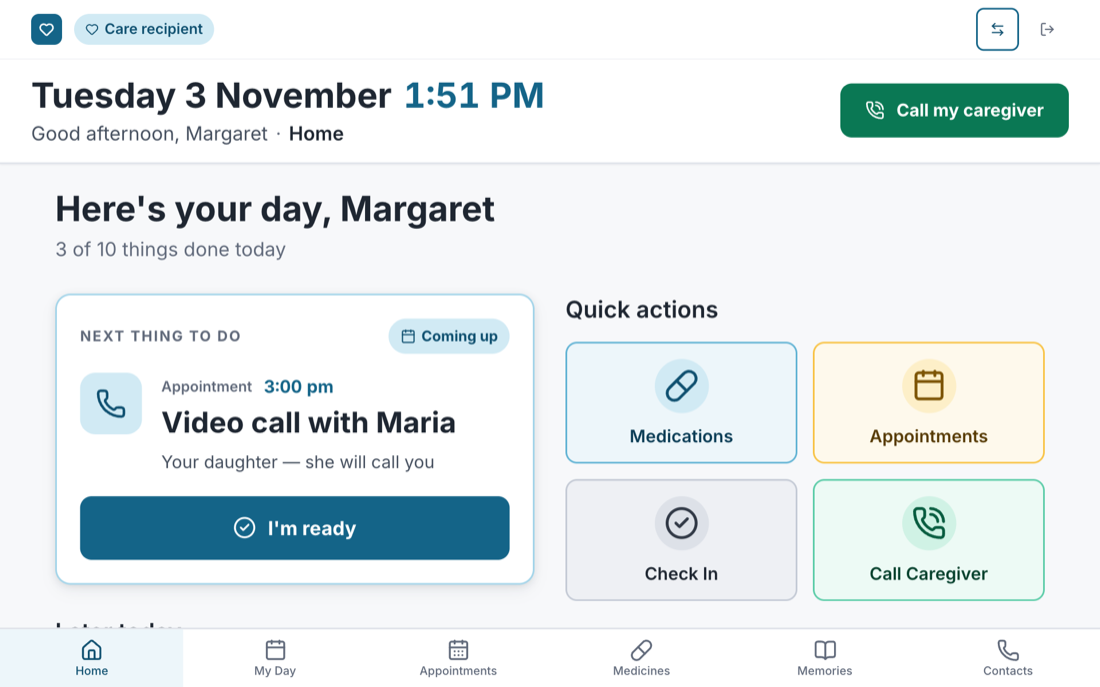
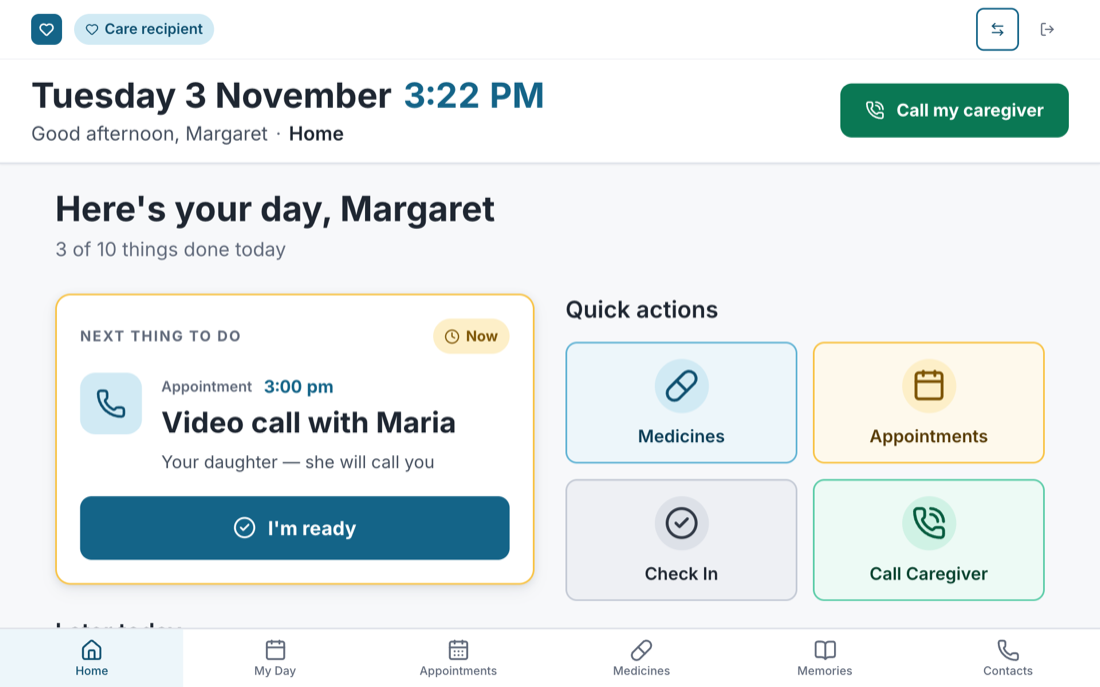
Align the web wording with the ADHD audience and the rest of the app
- Landing page and chat assistant describe adults with ADHD, not people who
  need help remembering.
- The Home quick action says Medicines, matching the tab below it.
- The caregiver menu says Switch to care recipient, matching the badge.
- The Medicines count is one text node, so screen readers don't get
  "3 medicine s".
- Retake the user guide screenshots.

diff --git a/apps/web/src/components/ChatBot.tsx b/apps/web/src/components/ChatBot.tsx
@@ -48,7 +48,7 @@ function getScriptedResponse(message: string): string {
     /\b(what is|what'?s|tell me about|explain|describe|how does|how do|what can)\b/.test(msg) ||
     /careconnect/.test(msg)
   ) {
-    return "CareConnect is a daily companion app for people who need a little help remembering their routine, and the caregivers who support them. It includes a daily schedule, medication reminders, memory cards for people and places, and a shared caregiver notes area — all in a calm, easy-to-read design.";
+    return "CareConnect is a daily companion app for adults with ADHD, and the caregivers who support them. It includes a daily schedule, medication reminders, memory cards for people and places, and a shared caregiver notes area — all in a calm, easy-to-read design.";
   }
 
   // Who is it for

diff --git a/apps/web/src/components/Layout.tsx b/apps/web/src/components/Layout.tsx
@@ -384,10 +384,9 @@ export default function Layout({
                 <button
                   onClick={onSwitchRole}
                   className="w-full flex items-center gap-2.5 px-3 py-2.5 rounded-lg text-sm font-medium text-neutral-500 hover:text-calm-600 hover:bg-calm-50 transition-colors min-h-[2.75rem]"
-                  aria-label="Switch to patient (care recipient role)"
                 >
                   <Heart className="w-5 h-5 flex-shrink-0" aria-hidden="true" />
-                  Switch to patient
+                  Switch to care recipient
                 </button>
               </div>
             </nav>

diff --git a/apps/web/src/pages/Landing.tsx b/apps/web/src/pages/Landing.tsx
@@ -123,7 +123,7 @@ export default function Landing() {
 
                 {/* Supporting sentence for both audiences */}
                 <p className="text-lg md:text-xl text-calm-100 leading-relaxed mb-8 max-w-xl">
-                  For people who need a little help remembering, and the people who care for them.
+                  For adults with ADHD, and the people who support them.
                 </p>
 
                 {/* Primary CTAs */}

diff --git a/apps/web/src/pages/Medications.tsx b/apps/web/src/pages/Medications.tsx
@@ -179,7 +179,7 @@ useEffect(() => {
         >
           <AlertCircle className="w-6 h-6 text-warm-600 flex-shrink-0" aria-hidden="true" />
           <p className="text-warm-800 font-medium">
-            {pendingCount} medicine{pendingCount > 1 ? 's' : ''} still to take today.
+            {`${pendingCount} ${pendingCount > 1 ? 'medicines' : 'medicine'} still to take today.`}
           </p>
         </div>
       ) : (

diff --git a/apps/web/src/pages/Today.tsx b/apps/web/src/pages/Today.tsx
@@ -445,7 +445,7 @@ export default function Today() {
           <div className="grid grid-cols-2 gap-4">
             <BigActionTile
               icon={<Pill className="w-9 h-9" />}
-              label="Medications"
+              label="Medicines"
               description="View and mark today's medicines"
               colour="calm"
               onClick={() => navigate('/app/medications')}

diff --git a/docs/USER-GUIDE.md b/docs/USER-GUIDE.md
@@ -143,7 +143,7 @@ Home answers "what do I do now?".
 - **Next thing to do** shows one medicine or appointment with one button: **Mark as taken** or
   **I'm ready**.
 - **Later today** lists what's coming up, so you can look ahead without leaving the screen.
-- **Quick actions** open Medications and Appointments, send a **Check In** to your caregiver, or call
+- **Quick actions** open Medicines and Appointments, send a **Check In** to your caregiver, or call
   your caregiver.
 
 ![The Home screen](user-guide/images/web-home.png)
